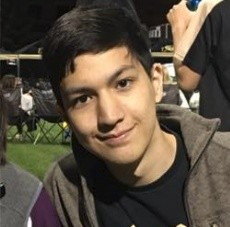
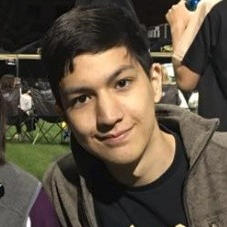
Update images

diff --git a/ancileware/index.html b/ancileware/index.html
@@ -844,7 +844,7 @@
             <div class="single-team-member">
               <div class="team-img">
                 <a>
-                  <img src="img/team/luke.png" alt="">
+                  <img src="img/team/luke.jpg" alt="">
                 </a>
                 <div class="team-social-icon text-center">
                   <ul>
